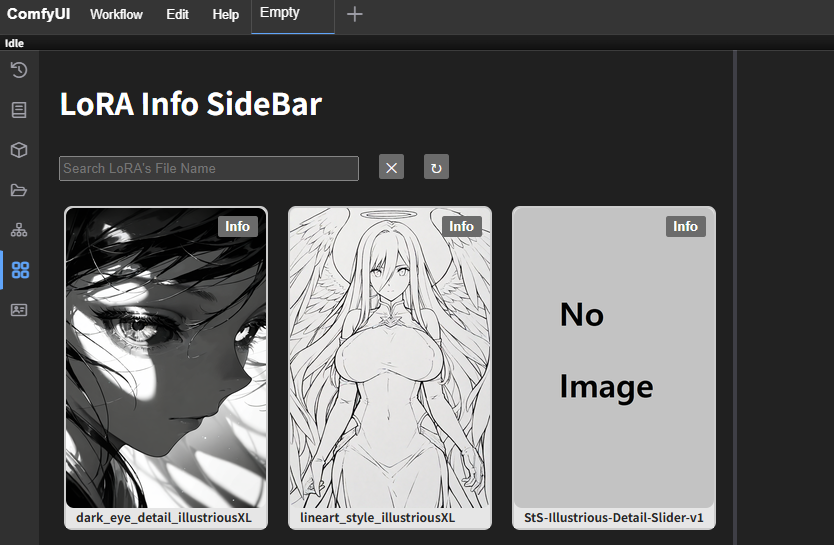
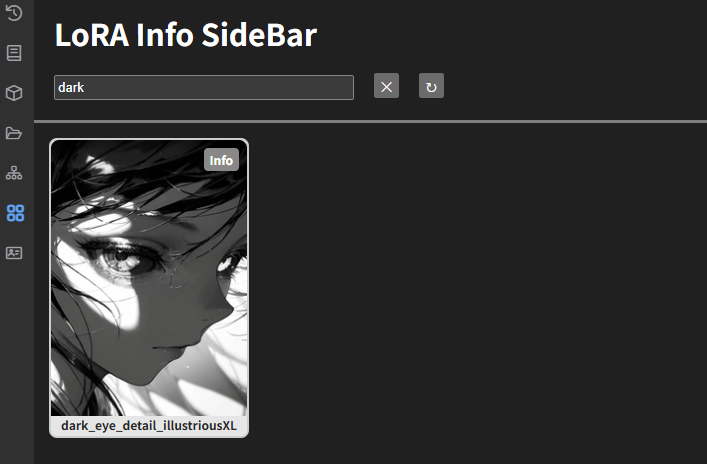
1.1.6

diff --git a/web/css/lorainfo-sidebar.css b/web/css/lorainfo-sidebar.css
@@ -20,11 +20,25 @@
     font-family: 'Roboto', 'Noto Sans', 'Helvetica Neue', sans-serif;
     font-size: 30px;
     font-weight: bold;
-    margin: 30px 0px 30px 20px;
+    margin: 0px 0px 0px 0px;
+    padding: 0px 0px 0px 20px;
+    line-height: 80px;
+    height: 80px;
+    position: sticky;
+    z-index: 10;
+    top: 0px;
+    background-color: #202020;
 }
 
 .control-panel-container {
-    margin: 0px 0px 20px 20px;
+    margin: 0px 0px 0px 0px;
+    padding: 0px 0px 10px 20px;
+    height: 50px;
+    position: sticky;
+    z-index: 10;
+    top: 80px;
+    background-color: #202020;
+    border-bottom: #7e7e7e 3px solid;
 }
 
 .search-input {
@@ -51,7 +65,7 @@
     display: flex;
     flex-wrap: wrap;
     gap: 10px;
-    padding: 0px 0px 0px 20px;
+    padding: 10px 0px 0px 10px;
 }
   
 .preview-container {
@@ -61,20 +75,44 @@
     border-radius: 8px;
     position: relative;
     background-color: #e6e6e6;
+    width: 200px;
+    height: 300px;
+    overflow: hidden;
 }
 
 .info-button {
+    all: unset;
     position: absolute;
     top: 8px;
     right: 8px;
+    background-color: #888;
+    color: white;
+    font-size: 12px;
+    font-weight: bold;
+    padding: 3px 6px;
+    border-radius: 4px;
+    cursor: pointer;
+    font-family: 'Roboto', 'Noto Sans', 'Helvetica Neue', sans-serif;
 }
+
+.info-button:hover {
+    background-color: #4e4e4e;
+}
+
 
 .preview-image {
     display: block;
     border-radius: 8px;
+    width: 100%; 
+    height: 100%;
+    object-fit: cover;
 }
 
 .preview-text-container {
+    all: unset;
+    position: absolute;
+    bottom: 0px;
+    left: 0px;
     background-color: #e6e6e6;
     width: 200px; 
     overflow-x: auto;
@@ -103,17 +141,12 @@
     margin: 0px 10px 3px 10px;
 }
 
-.info-button {
-    font-weight: bold;
-}
-
 .lorainfo-sidebar-modal {
     font-family: 'Roboto', 'Noto Sans', 'Helvetica Neue', sans-serif;
     background-color: rgb(128, 128, 128);
     padding: 20px;
     border: #505050 5px solid;
     border-radius: 8px;
-    z-index: 1000; 
     position: relative;
     top: 25px;
     left: 100px;

diff --git a/web/lorainfo_sidebar.js b/web/lorainfo_sidebar.js
@@ -29,7 +29,8 @@ class LoRAInfo_SideBar {
             $el("div.lorainfo-sidebar-modal", {
                 draggable: false,
                 style: {
-                    display: "none"
+                    display: "none",
+                    zIndex: 0
                 },
             }, [
                 $el("div.lorainfo-sidebar-modal-header", [
@@ -43,6 +44,7 @@ class LoRAInfo_SideBar {
                         innerHTML: "&#x2715;",
                         onclick: () => {
                             document.getElementsByClassName("lorainfo-sidebar-modal")[0].style.display = "none";
+                            document.getElementsByClassName("lorainfo-sidebar-modal")[0].style.zIndex = 0;
                         }
                     })
                 ]), 
@@ -102,6 +104,7 @@ class LoRAInfo_SideBar {
             document.head.appendChild(styleElement);
         } catch (error) {
             console.error('Error loading LoRA Sidebar styles:', error);
+            alert('[Custom Node: comfyui-lorainfo-sidebar]\n⚠ Failed to load CSS styles. Some layout may look broken.');
         }
     }
 
@@ -172,8 +175,8 @@ class LoRAInfo_SideBar {
                             innerHTML: filename
                         })
                     ]);
-
                     previewConainer.appendChild(previewTextContainer);
+
                     this.galleryContainer.appendChild(previewConainer);
                 });
             });
@@ -243,6 +246,7 @@ class LoRAInfo_SideBar {
 
     displayLoraEditModal(e) {
         document.getElementsByClassName("lorainfo-sidebar-modal")[0].style.display = "block";
+        document.getElementsByClassName("lorainfo-sidebar-modal")[0].style.zIndex = 1000;
         
         const previewContainer = e.target.parentElement;
         const modal = document.getElementsByClassName("lorainfo-sidebar-modal")[0];

diff --git a/__init__.py b/__init__.py
@@ -88,28 +88,27 @@ async def get_lora_json(request):
 
     lora_folder_paths = folder_paths.get_folder_paths("loras")
 
-    json_content = None
     for lora_folder_path in lora_folder_paths:
         lora_folder_abspath = os.path.realpath(lora_folder_path)
         if os.path.exists(lora_folder_abspath):
             for root, dirs, files in os.walk(lora_folder_abspath, followlinks=True):
                 for filename in files:
-                    
+                    # Find the LoRA file
                     if filename.lower().endswith(".safetensors") and requested_filename == os.path.splitext(filename)[0].strip():
-                        if json_content == None:
-                            json_content = {}
+                        response = {}
+                        filename = os.path.splitext(filename)[0].strip()
                         
-                        with safe_open(os.path.join(root, filename), framework="pt", device="cpu") as safetensors_file:
-                            json_content["metadata"] = safetensors_file.metadata()
+                        # Read the metadata of LoRA file
+                        with safe_open(os.path.join(root, filename + ".safetensors"), framework="pt", device="cpu") as safetensors_file:
+                            response["metadata"] = safetensors_file.metadata()
 
-                    if filename.lower().endswith(".json") and requested_filename == os.path.splitext(filename)[0].strip():
-                        if json_content == None:
-                            json_content = {}
+                        # Read the JSON file when its filename is the same as the LoRA filename
+                        with open(os.path.join(root, filename + ".json"), "r", encoding="utf-8") as json_file:
+                            response["json_file"] = json.load(json_file)
 
-                        with open(os.path.join(root, filename), "r", encoding="utf-8") as json_file:
-                            json_content["json_file"] = json.load(json_file)
+                        return web.json_response(response)
 
-    return web.json_response(json_content)
+    return web.json_response(None)
 
 @PromptServer.instance.routes.post("/lorainfo_sidebar/save_lora_json")
 async def save_lora_json(request):

diff --git a/README.md b/README.md
@@ -21,4 +21,11 @@ If ComfyUI Manager already installed
 - The JSON and preview image filenames must match the LoRA file's name.
 - You can add a preview image and a JSON file in the same directory as the LoRA file.
 - You can edit the JSON file like this:
+
 ![Preview](readme_img/02.png)
+
+## Change Log
+- 1.1.6
+  - Adjustments to the LoRA file preview styling
+  - Improved the loading stability of the info button and filename text in the LoRA file preview across different environments
+  - Pinned the title and search bar to the top
